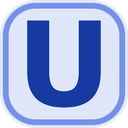
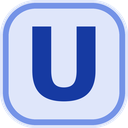
fix(desktop): уменьшена буква логотипа, иконка «Пипетки» возвращена

Changed region(s): [[0.1875, 0.1562, 0.8125, 0.8438]]

diff --git a/scripts/make-icons.py b/scripts/make-icons.py
@@ -225,6 +225,7 @@ GLYPHS = {
 }
 
 OPTICAL = {
+    "app": 0.86,
     "qr": 0.98,
     "ocr": 0.98,
 }
@@ -298,11 +299,12 @@ def main():
     for name in ("settings", "pause", "retry", "quit", "fallback"):
         save(ICONS / f"menu-{name}.png", name, ACCENTS[name], 32)
 
+    # Иконка «Пипетки» осталась прежней: авторский синий значок лежит в
+    # plugins/color-picker/assets и генератором не перезаписывается.
     plugins = {
         "screenshot": "screenshot",
         "translator": "translator",
         "control": "app",
-        "color-picker": "pipette",
         "qr-code": "qr",
         "screen-ocr": "ocr",
     }

diff --git a/docs/tasks/blocks/plugins/screenshot/icon-asset.md b/docs/tasks/blocks/plugins/screenshot/icon-asset.md
@@ -16,7 +16,7 @@
 
 - [x] `plugins/screenshot/assets/icon.png` — самостоятельный значок 128×128 RGBA: пастельная синяя плитка `#2563EB`, глиф-камера, рамка и оптический размер как у остальных.
 - [x] Приложение и контрольный модуль переведены в тот же стиль; `plugins/control/assets/icon.png` и `apps/desktop/icons/128x128.png` побайтно совпадают, плитка и рамка того же размера и радиуса.
-- [x] SHA-256 всех иконок различаются: приложение и контрольный модуль `4d0775a9…`, «Скриншоты» `8b3b5b24…`, «Переводчик» `3679d6d7…`, «Пипетка» `61ff7421…`, QR-коды `de9dce55…`, «Текст с экрана» `771b98c3…`.
+- [x] SHA-256 всех иконок различаются: приложение и контрольный модуль `e07a4280…`, «Скриншоты» `8b3b5b24…`, «Переводчик» `3679d6d7…`, «Пипетка» `e13e8356…` (её прежний синий значок), QR-коды `de9dce55…`, «Текст с экрана» `771b98c3…`.
 - [ ] В настройках и в трее у «Скриншотов» виден новый значок.
 - [x] Значок читается при 16 и 32 px в светлой и тёмной теме.
 
@@ -30,8 +30,8 @@
 
 - `scripts/make-icons.py` — единый генератор всех иконок в стиле «Пастель»: светлая плитка цвета инструмента, рамка того же цвета, тёмный глиф, общая сетка и оптический размер (глиф — 68 % плитки).
[2 lines of base64/hex data omitted]
-- Остальные микроприложения получили свои пастельные значки: пипетка (128×128 `61ff7421…`), QR-коды `de9dce55…`, «Текст с экрана» `771b98c3…`; в манифесты QR и OCR добавлено `"icon": "assets/icon.png"`.
[1 lines of base64/hex data omitted]
+- Остальные микроприложения получили свои пастельные значки: QR-коды `de9dce55…`, «Текст с экрана» `771b98c3…`; в манифесты QR и OCR добавлено `"icon": "assets/icon.png"`. У «Пипетки» по решению пользователя оставлен прежний синий значок `e13e8356…`, генератор его не перезаписывает.
 - Манифест «Скриншотов» уже объявлял `"icon": "assets/icon.png"`, поэтому новый файл попадает в настройки, в трей и в пакет при сборке `docker/windows/build-windows.sh`.
 
 ## Проверка

diff --git a/docs/ui-style-guide.md b/docs/ui-style-guide.md
@@ -34,10 +34,14 @@
   квадрат, радиус 28 %, рамка 4.5 % от плитки.
 - Один оптический размер: глиф центрирован и занимает 68 % плитки, поэтому плитки и
   символы не «прыгают» по величине между инструментами.
+- У логотипа «U» оптическая поправка 0.86: буква чуть меньше остальных глифов, иначе
+  иконка приложения выглядит крупнее соседних.
+- Исключение — «Пипетка»: у неё остаётся прежний авторский синий значок с белой
+  пипеткой, генератор `make icons` этот файл не перезаписывает.
 - Акценты: приложение и контрольный модуль — синий `#1D4ED8`; «Скриншоты» — `#2563EB`,
-  «Переводчик» — `#0D9488`, «Пипетка» — `#EA580C`, «QR-коды» — `#4F46E5`,
-  «Текст с экрана» — `#DB2777`; «Настройки» — `#475569`, «Пауза» — `#EAB308`,
-  «Обновить» — `#7C3AED`, «Выход» — `#DC2626`, заглушка — `#94A3B8`.
+  «Переводчик» — `#0D9488`, «QR-коды» — `#4F46E5`, «Текст с экрана» — `#DB2777`;
+  «Настройки» — `#475569`, «Пауза» — `#EAB308`, «Обновить» — `#7C3AED`,
+  «Выход» — `#DC2626`, заглушка — `#94A3B8`.
 - Глифы: камера, речевое облако с «A», пипетка, QR-маркеры, строки текста в рамках
   захвата, шестерёнка, пауза, круговая стрелка, знак питания, сетка 2×2. Буквы как
   глифы — только «U» у приложения и «A» у переводчика.
